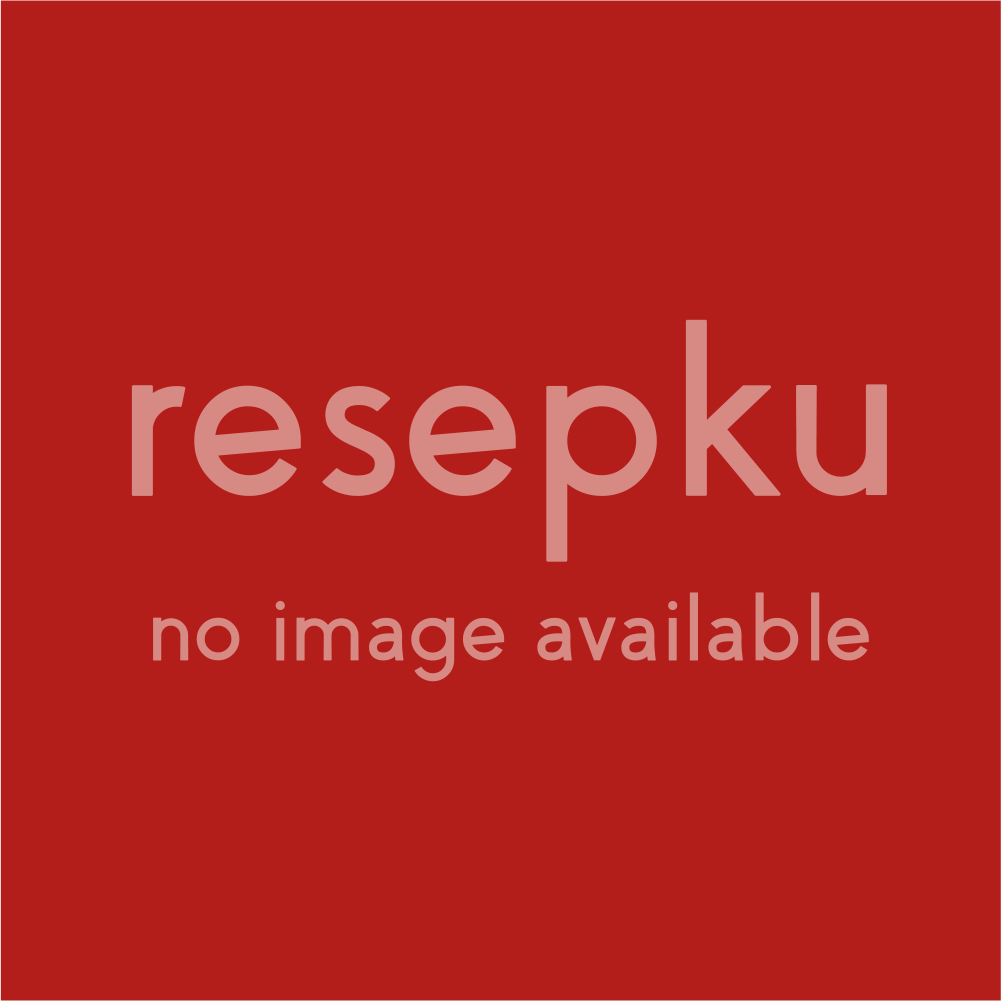
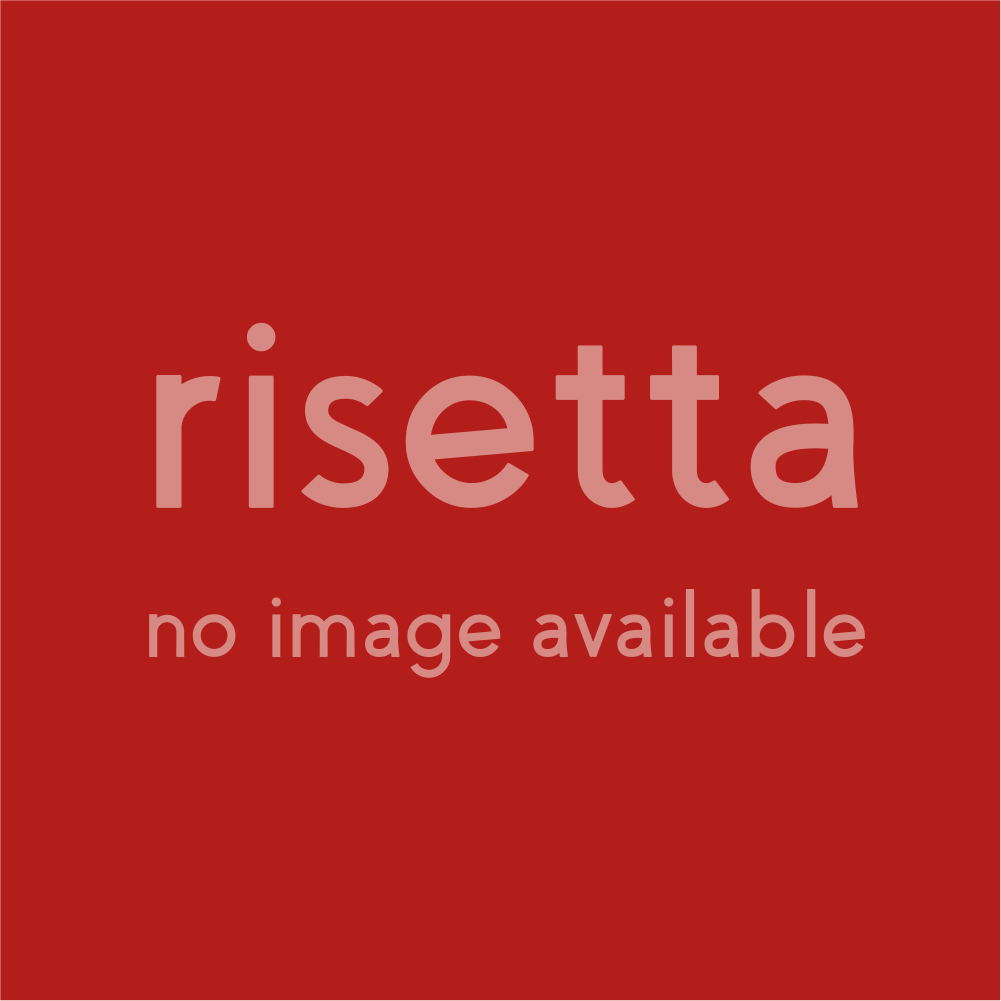
Change no-image-available to risetta.

Changed region(s): [[0.1239, 0.3097, 0.8981, 0.5574], [0.0, 0.0, 1.0, 1.0], [0.1239, 0.5884, 0.8671, 0.6813]]

diff --git a/src/app/tabs/beranda/beranda.page.ts b/src/app/tabs/beranda/beranda.page.ts
@@ -134,14 +134,12 @@ export class BerandaPage implements OnInit {
       const firstStringMatches = [];
       const secondStringMatches = [];
 
-      // Menentukan toleransi jarak dari kedua string/Max Match Distance
       const maxMatchDistance = Math.floor(secondStringLen / 2) - 1;
-
       let matches = 0;
+      let matchedFirstString = '';
+      let matchedSecondString = '';
 
-      // Menghitung jumlah match
       for (let i = 0; i < firstStringLen; i++) {
-        // Menentukan nilai start dan end berdasarkan maxMatchDistance
         const start = Math.max(0, i - maxMatchDistance);
         const end = Math.min(i + maxMatchDistance + 1, secondStringLen);
 
@@ -150,40 +148,48 @@ export class BerandaPage implements OnInit {
             continue;
           }
           if (firstString[i] !== secondString[j]) {
+            firstStringMatches[i] = false;
+            secondStringMatches[j] = false;
             continue;
           }
           firstStringMatches[i] = true;
           secondStringMatches[j] = true;
+          matchedFirstString += firstString[i];
           matches++;
           break;
         }
       }
 
-      let k = 0;
-      let transpositions = 0;
-
-      // Menghitung nilai transposisi
-      for (let a = 0; a < firstStringLen; a++) {
-        if (!firstStringMatches[a]) {
-          continue;
+      for (let c = 0; c < secondStringLen; c++) {
+        if (secondStringMatches[c] === true) {
+          matchedSecondString += secondString[c];
         }
-        while (!secondStringMatches[k]) {
-          k++;
-        }
-        if (firstString[a] !== secondString[k]) {
-          transpositions++;
-        }
-        k++;
       }
 
-      transpositions = Math.ceil(transpositions / 2);
+      let splittedMatchedFirstString = [];
+
+      let transpositions = 0;
+
+      if (matchedFirstString !== matchedSecondString) {
+        splittedMatchedFirstString = matchedFirstString.split('');
+        for (let x = 0; x < matchedFirstString.length; x++) {
+          if (splittedMatchedFirstString[x] !== matchedSecondString[x]) {
+            for (let y = x + 1; y < matchedFirstString.length; y++) {
+              if (splittedMatchedFirstString[y] === matchedSecondString[x]) {
+                [splittedMatchedFirstString[x], splittedMatchedFirstString[y]] =
+                  [splittedMatchedFirstString[y], splittedMatchedFirstString[x]];
+                transpositions++;
+                break;
+              }
+            }
+          }
+        }
+      }
 
       let jaroDistance = 0;
 
-      // Menghitung Jaro Distance
       jaroDistance = ((matches / firstStringLen) + (matches / secondStringLen) + ((matches - transpositions) / matches)) / 3.0;
 
-      // Menghitung prefix
       let totalPrefix = 0;
       for (let i = 0; i < 4; i++) {
         if (firstString[i] === secondString[i]) {
@@ -193,7 +199,6 @@ export class BerandaPage implements OnInit {
         }
       }
 
-      // Menghitung Jaro-Winkler Distance
       jaroWinklerDistance = jaroDistance + (totalPrefix * 0.1 * (1 - jaroDistance));
 
       if (jaroWinklerDistance >= 0.7) {

diff --git a/src/app/menu/menus/menus.page.html b/src/app/menu/menus/menus.page.html
@@ -29,10 +29,10 @@
                     <ion-img
                             (click)="handleHistoryChange(idx, recipe.title, recipeType, recipe.imageUrl)"
                             [routerLink]="['./', idx]" *ngIf="recipe.imageUrl !== 'N/A'"
-                            class="thumbnail" src="{{recipe.imageUrl}}" alt="menu-image"></ion-img>
+                            class="thumbnail" src="{{recipe.imageUrl}}" alt="Loading image..."></ion-img>
                     <img (click)="handleHistoryChange(idx, recipe.title, recipeType, recipe.imageUrl)"
                          [routerLink]="['./', idx]" *ngIf="recipe.imageUrl === 'N/A'" class="thumbnail"
-                         src="../../../assets/no-image-available.png" alt="no-image-available.png">
+                         src="../../../assets/no-image-available.png" alt="Loading image...">
                     <ion-card-content
                             (click)="handleHistoryChange(idx, recipe.title, recipeType, recipe.imageUrl)"
                             [routerLink]="['./', idx]">
